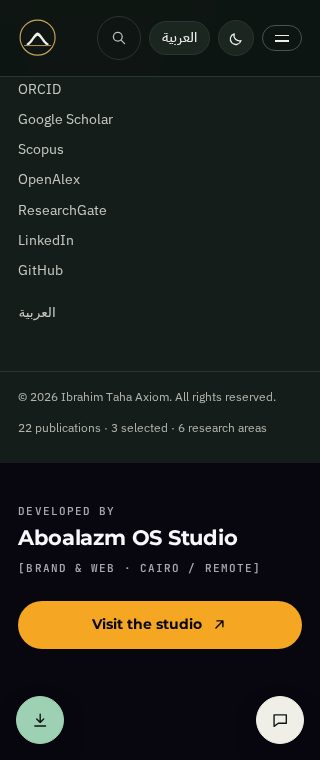
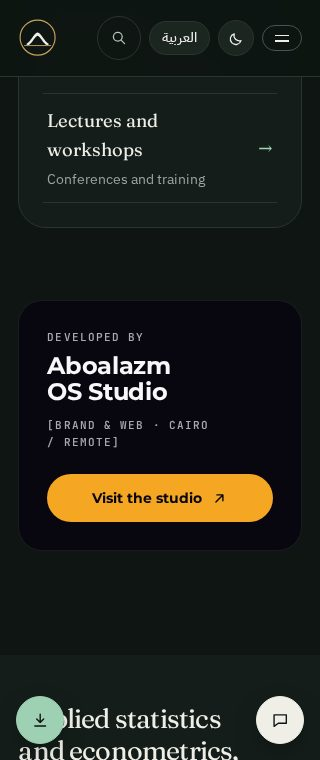
Studio credit: a section of its own before the footer, not a band in it
The owner asked for the credit as a normal section inside the page, just
before the footer, instead of the last band inside it.

- StudioCredit.astro is now a <section> between </main> and the footer,
  labelled by its <h2> ("Developed by Aboalazm OS Studio"), with its own
  data-pagefind-ignore: a rounded obsidian panel (the studio's 24 px
  radius) inside the page width. Still only --os-* tokens.
- The footer, the assistant's launcher and the install button are back to
  main byte for byte (no more --floating-clearance).
- Stacked below 48rem, side by side from 48rem: a fixed switch, so the
  height content-visibility reserves can be computed in CSS from the same
  values the layout uses. It matches the laid-out height at 34 width x
  language pairs (320-1920 px), so the footer never moves when the section
  appears. The first estimate (13rem everywhere) moved it by up to 33 px
  and failed the install-button footer check by 1 px.
- The site's Latin-in-Arabic-heading serif rule is overridden for the
  studio's name, which stays in Montserrat.
- Tests: the place, the heading, the keyboard order (content, button,
  footer), the reserved height at 1280/390/320, geometry against the panel.
- Docs: README, D-22, policy section 9, interaction architecture, QA log
  (including a correction: main already fails AXIOM contrast at the end of
  Arabic pages at 1280 px; the 96 % header fixes it), new screenshots.

diff --git a/docs/decisions-pending.md b/docs/decisions-pending.md
@@ -17,7 +17,7 @@
 | D-19 | **قرارات مراجعة جودة البيانات** | 🟢 الباحث جاوب على الأسئلة الـ16 في مراجعة جودة البيانات (اكتملت 2026-11-06 الساعة 6:22 م)، وصاحب المشروع وضّح ثلاث نقاط في محادثة المشروع. **اتحسم 15 سؤال واتطبّق:** معرّف Scopus الوحيد هو 57226774796 (DQ-05)؛ عنوان ResearchGate المعتمد هو Ibrahim-Taha-5 (DQ-06)؛ التعيين في فرع طنطا والتدريس في المقر الرئيسي بالمعادي (DQ-07)؛ رخصة مستودع البيانات على GitHub هي CC BY 4.0، وSVM_New غير معروض (DQ-09)؛ الاسم الرسمي «ابراهيم محمد ابراهيم محمود طه» في صفحة النبذة وبيانات محركات البحث، والصيغة القصيرة «ابراهيم محمد طه» في العناوين العربية باختيار صاحب المشروع (DQ-10)؛ صيغة واحدة للمؤلف المشارك «Rady, E. A.» (الحسيني عبد البر ابراهيم راضي، بتوضيح صاحب المشروع) (DQ-11)؛ الدليلان الشاملان كتب، فبقى العدد 6 كتب وتقريرين فنيين (DQ-12)؛ رابطا مجالات البحث الضعيفان اتبدّلوا بمجال التقارير الإحصائية والبرمجيات اللي اختاره صاحب المشروع (DQ-14)؛ والباقي (DQ-01–04 وDQ-08 وDQ-15 وDQ-16) اتأكّد زي ما هو من غير تغيير. **لسه مفتوح:** DQ-13 (أوراق مؤتمرَي 2018 و2019): إجابة الباحث «لست متأكدًا» متسجّلة. وفي 2026-11-07 السؤال اتضيّق: نشر الورقتين في وقائع المؤتمر اتأكد بمصادر، والصفحة بقى اسمها «أوراق المؤتمرات»، وفاضل سؤال واحد: هل الباحث قدّم أي ورقة منهم شفهيًا بنفسه. كل إجابة متسجّلة بمصدرها في [data-quality-register.md](data-quality-register.md)، والبناء بيرفض إغلاق أي سؤال من غير قرار مسجّل. المسودات العربية اللي اتعدّلت بسبب القرارات دي لسه مسودات | 2026-11-06 |
 | D-20 | **مساعد الموقع (شات بوت)** | 🟢 **بطلب صاحب المشروع:** نافذة محادثة منبثقة في كل صفحات الموقع، تجاوب عن محتوى الموقع: إيه الموجود في كل قسم وإيه الناقص. **اختيارات صاحب المشروع:** للموقع ده؛ في نفس طلب الدمج #9؛ الإجابات من محتوى الموقع، ومعاها شرح إحصائي عام بشرط أن يبدأ بعبارة «شرح عام (ليس من محتوى الموقع):». **التنفيذ:** مفيش تدريب للنموذج (fine-tuning). المحتوى المعتمد كله بيتبعت مع كل سؤال لـ Google Gemini عن طريق Vercel Function (`/api/chat`)، ودي أول نقطة خادم في الموقع (D-04). **المفتاح** مكانه الوحيد متغير البيئة `GEMINI_API_KEY` في Vercel، لا في الكود ولا في المتصفح. **صاحب المشروع هو اللي يضيفه** (Production وPreview)، ولحد ما يتضاف المساعد بيعرض إنه غير مُعَدّ. المفتاح اللي اتبعت في المحادثة لازم يتغيّر، ويتقيّد بـ Gemini API، ويتحطله حد ميزانية. القواعد والخصوصية في [public-content-policy.md](public-content-policy.md) §7، والتشغيل في [site/README.md](../site/README.md#site-assistant-apichat) | 2026-11-07 |
 | D-21 | **تثبيت الموقع كتطبيق (PWA)** | 🟢 **بطلب صاحب المشروع:** «ضيف امكانية تحميل الويب سايت كتطبيق». **التنفيذ:** الموقع بقى تطبيق ويب يتثبّت من المتصفح نفسه، من غير متجر. بيفتح في نافذة مستقلة بأيقونته، والصفحات اللي الزائر فتحها قبل كده بتفضل متاحة للقراءة من غير إنترنت، والصفحتين الرئيسيتين بيتحفظوا من أول زيارة. **تطبيقين:** إنجليزي يبدأ من `/` (بنفس هوية أي تثبيت قديم) وعربي يبدأ من `/ar/` باسم «ابراهيم محمد طه» (DQ-10). **زر «ثبّت التطبيق»:** بعد أول نسخة طلب صاحب المشروع: «مش عاوز دا انا عاوز يبقا زرار قصاد الشات بوت عاليمين ادوس عليه يتثبت علطول». الزر بقى زر عائم واحد قصاد زر المساعد: تحت على اليمين في العربي، وتحت على الشمال في الإنجليزي، على نفس الارتفاع. على الموبايل بيبقى دايرة بأيقونة زي زر المساعد. واتشالت نافذة الخطوات المكتوبة وزرار الفوتر وقائمة الموبايل. الزر بيظهر لما المتصفح نفسه يبلّغ إن الموقع قابل للتثبيت (Chrome وEdge والمتصفحات المبنية على Chromium)، ودوسة واحدة بتفتح نافذة التثبيت بتاعة المتصفح. بيفضل تأكيد واحد من المتصفح نفسه، لأن مفيش موقع يقدر يثبّت نفسه من غير موافقة الزائر. في Safari (iPhone وiPad والماك) وFirefox مفيش زر، لأن المتصفحات دي مش بتدّي المواقع أي طريقة للتثبيت؛ التثبيت هناك من قائمة المتصفح (في Safari: مشاركة ثم «إضافة إلى الشاشة الرئيسية»). الزر مش بيظهر جوه التطبيق بعد تثبيته، ولا من غير JavaScript. **المحتوى:** هو نفس محتوى الموقع المعتمد، والصفحة اللي تتشال من الموقع بتتشال نسختها المحفوظة أول ما الزائر يفتحها وهو متصل ([public-content-policy.md](public-content-policy.md) §8). **مش داخل في التنفيذ:** النشر على Google Play، وده ممكن لاحقًا عن طريق TWA (بأداة PWABuilder أو Bubblewrap) ومحتاج حساب مطوّر باسم صاحب المشروع وملف `/.well-known/assetlinks.json`. وكمان App Store، لأن إرشادات Apple (البند 4.2) بترفض التطبيق اللي مجرد موقع متغلّف. **لسه:** متجرّبش على أجهزة حقيقية؛ أول تجربة فعلية بتكون على الموقع المنشور. التفاصيل في [site/README.md](../site/README.md#install-as-an-app) | 2026-11-07 |
-| D-22 | **توقيع الاستوديو في آخر الموقع** | 🟢 **بطلب صاحب المشروع:** «ضيف في الآخر سيكشن انو الموقع من تطوير Aboalazm OS Studio … واعمل زرار ريدايركت والسيكشن يكون بايدنتيتي الاستوديو مش الويبسايت». **التنفيذ:** شريط في آخر كل صفحة، جوه الفوتر، مكتوب فيه «من تطوير Aboalazm OS Studio»، وزرار «زيارة الاستوديو» بيفتح https://aboalazm-os.vercel.app/ في تبويب جديد. **الهوية:** هوية الاستوديو مش الموقع، ومفيش ولا لون أو خط من ألوان وخطوط الموقع. الخلفية #080710، وهو نفس لون تطبيق الاستوديو في الـ manifest بتاعه. ونظام «semantic monochrome» بتاع الاستوديو: نص بلون واحد بدرجات شفافية، وخط رفيع أبيض 8%، واللون المميز #F5A623 للزرار وحلقة التركيز بس. والخطوط Montserrat وJetBrains Mono، وIBM Plex Sans Arabic في العربي. **مش داخل:** خطوط العناوين بتاعة الاستوديو (GC EPICPRO وThmanyah) ما اتنسختش لأن رخصتها للموقع ده مش معروفة. ولوجو الاستوديو مش موجود، لأن ملفه مش متاح هنا. **تعديل جانبي:** الهيدر بعد النزول بقى أوضح شوية (96% بدل 92%)، علشان كلمة AXIOM الصغيرة تفضل مقروءة لما الفوتر الغامق يعدي تحته. التفاصيل في [site/README.md](../site/README.md#studio-credit) | 2026-11-07 |
+| D-22 | **توقيع الاستوديو في آخر الموقع** | 🟢 **بطلب صاحب المشروع:** «ضيف في الآخر سيكشن انو الموقع من تطوير Aboalazm OS Studio … واعمل زرار ريدايركت والسيكشن يكون بايدنتيتي الاستوديو مش الويبسايت». **التنفيذ:** سيكشن لوحده في كل صفحة، بعد محتوى الصفحة وقبل الفوتر على طول، عنوانه «من تطوير Aboalazm OS Studio»، وفيه زرار «زيارة الاستوديو» بيفتح https://aboalazm-os.vercel.app/ في تبويب جديد. أول نسخة كانت شريط جوه الفوتر، وصاحب المشروع طلب تعديلها: «ليه تحت الفوتر انا عاوزها سيكشن جوا الصفحة عادي بس قبل الفوتر». **الهوية:** هوية الاستوديو مش الموقع، ومفيش ولا لون أو خط من ألوان وخطوط الموقع. الخلفية #080710، وهو نفس لون تطبيق الاستوديو في الـ manifest بتاعه. ونظام «semantic monochrome» بتاع الاستوديو: نص بلون واحد بدرجات شفافية، وخط رفيع أبيض 8%، واللون المميز #F5A623 للزرار وحلقة التركيز بس، ولوحة بحواف مدورة 24px زي لوحات الاستوديو الكبيرة. والخطوط Montserrat وJetBrains Mono، وIBM Plex Sans Arabic في العربي. **مش داخل:** خطوط العناوين بتاعة الاستوديو (GC EPICPRO وThmanyah) ما اتنسختش لأن رخصتها للموقع ده مش معروفة. ولوجو الاستوديو مش موجود، لأن ملفه مش متاح هنا. **تعديل جانبي:** الهيدر بعد النزول بقى أوضح شوية (96% بدل 92%)، علشان كلمة AXIOM الصغيرة تفضل مقروءة فوق الفوتر الغامق. في آخر الصفحات العربي على الشاشات العريضة، الفوتر بيملا الشاشة كلها تحت الهيدر، وكانت النسبة 4.4:1 حتى على main، يعني المشكلة دي كانت موجودة قبل التوقيع. التفاصيل في [site/README.md](../site/README.md#studio-credit) | 2026-11-07 |
 | D-07 | **الاستضافة** | 🟢 **Vercel**. التطبيق في مجلد `site/` كـ Root Directory، والإعدادات والمتغيرات موثقة في [deployment.md](deployment.md) | 2026-11-05 |
 
 **ما يترتب على D-03:** مسارات منفصلة لكل لغة، ونصوص الواجهة مترجمة، وCSS بـ logical properties، وخط عربي، وhreflang مع الإنجليزية كـ `x-default`، واختبارات بصرية للاتجاهين LTR وRTL. القراران الفرعيان D-03a وD-03b بالأسفل.

diff --git a/site/README.md b/site/README.md
@@ -33,7 +33,7 @@ Run `npm run inventory` for the current figures rather than trusting this paragr
 ```
 src/
 ├── components/
-│   ├── layout/        BaseLayout pieces: SiteHeader (search button), SiteFooter (translation status), Seo (meta, hreflang, JSON-LD, robots), StudioCredit (the studio's band at the end of the footer)
+│   ├── layout/        BaseLayout pieces: SiteHeader (search button), SiteFooter (translation status), Seo (meta, hreflang, JSON-LD, robots), StudioCredit (the studio's section, right before the footer)
 │   ├── home/          HomeHero (normal-density figure), IdentityPanel, MetricCards, ResearchDiscovery, LabTeaser
 │   ├── search/        SearchDialog (Ctrl/⌘ K, combobox + listbox)
 │   ├── publications/  PublicationExplorer (search, filters, sorts, views, URL state), PublicationItem, CiteBlock, AuthorList
@@ -255,15 +255,16 @@ Further details:
 
 ## Studio credit
 
-The last band of every page, inside the site footer (`src/components/layout/StudioCredit.astro`), says the website was developed by **Aboalazm OS Studio**. It links to the studio's site, <https://aboalazm-os.vercel.app/>, with "Visit the studio" / «زيارة الاستوديو»; the link opens in a new tab, and screen readers are told so. The owner asked for it on 2026-11-07 (decision D-22).
+A section of its own on every page, after the page's content and right before the site footer, says the website was developed by **Aboalazm OS Studio** (`src/components/layout/StudioCredit.astro`, placed by `BaseLayout.astro`). Its heading, an `<h2>` that labels the section, reads "Developed by Aboalazm OS Studio" / «من تطوير Aboalazm OS Studio». It links to the studio's site, <https://aboalazm-os.vercel.app/>, with "Visit the studio" / «زيارة الاستوديو»; the link opens in a new tab, and screen readers are told so. The owner asked for it on 2026-11-07 (decision D-22). The first version was a band at the end of the footer; the owner then asked for a section inside the page, before the footer.
 
-**The studio's identity, not the site's.** The band uses none of the site's colour, font, spacing or motion tokens; `tests/studio-credit.test.mjs` checks this. Its values come from the studio:
+**The studio's identity, not the site's.** The section uses none of the site's colour, font, spacing or motion tokens; `tests/studio-credit.test.mjs` checks this. Its values come from the studio:
 - **Canvas:** obsidian `#080710`, the theme colour of the studio's own app manifest (`https://aboalazm-os.vercel.app/manifest.webmanifest`).
 - **Token layer ("semantic monochrome"):** taken from `app/globals.css` in `3boalazm/Youssefguba-os`, a site built on the studio's system with the same `#080710`. It gives:
   - one text colour at fixed opacities;
   - the 8 % white "spec line";
   - the studio accent `#F5A623`, which that layer keeps "ONLY for focus rings & critical CTAs" (here, the one button and its focus ring);
-  - the signature curve `cubic-bezier(0.16, 1, 0.3, 1)`.
+  - the signature curve `cubic-bezier(0.16, 1, 0.3, 1)`;
+  - the 24 px radius of its large panels (from the same project's architecture notes): the section is a rounded obsidian panel inside the page width.
 - **Typefaces:**
   - Montserrat 700 and JetBrains Mono 500, Latin only, from `@fontsource` (OFL);
   - IBM Plex Sans Arabic in Arabic, which the site already loads;
@@ -272,15 +273,19 @@ The last band of every page, inside the site footer (`src/components/layout/Stud
 
 **Arabic.** Labels drop the Latin tracking and capitals, which would break the joins of Arabic letters. The studio's name stays in Latin, isolated with `<bdi lang="en">`. The button's arrow points the reading way.
 
-**Cost.** `content-visibility: auto` keeps the band from being laid out until it nears the viewport, so its two fonts (18.8 KB and 21.8 KB) load only then. Lighthouse saw neither font during page load, and the Performance score stayed the same (`docs/qa-checklist.md`).
+**Layout.** Below 48rem the text and the button are stacked (the button full width up to 30rem); from 48rem they sit side by side, which they do with room to spare in both languages. The switch is a fixed width rather than a wrap, so the section's height can be known in advance (next paragraph). Arabic is mirrored, and the button's arrow points the reading way.
 
-**The floating buttons.** While they show, the assistant's launcher and the install button set `--floating-clearance` on `<html>`. The band adds it to its bottom padding, so at the end of a page they never cover it. This room used to be under the footer.
+**Cost.** `content-visibility: auto` keeps the section from being laid out until it nears the viewport, so its two fonts (18.8 KB and 21.8 KB) load only then. Until then the browser reserves its height (`contain-intrinsic-block-size`), computed in CSS from the same values the layout uses: the panel's padding, the name's size, the line heights, and the gap and button when stacked (the `--credit-*` values in the component). Where the name and the English label line wrap (344 and 337 px wide viewports, measured with the studio's fonts), the height adds their second lines. It matches the laid-out height at every width from 320 to 1920 px in both languages, so the footer does not move when the section appears. Lighthouse saw neither font during page load, and the Performance score and CLS stayed the same (`docs/qa-checklist.md`).
 
-**The site header.** With the band, the dark footer can now scroll under the condensed header on wide screens. The header's paper share went from 92 % to 96 %, so the small brass "AXIOM" keeps 4.5:1 (axe measured 4.4:1 before).
+**The floating buttons.** The footer keeps the room it always had for them at the end of a page. In the section, the button stays clear of them at 1280, 390 and 320 px.
 
-**Tests:** `tests/studio-credit.test.mjs` covers every page, the link, the identity and the clearance. The studio-credit block of `tests/e2e/app.mjs` covers the rest:
-- the fonts wait until the band nears the viewport;
-- the rendered colours, typefaces and focus ring are the studio's;
+**The site header.** At the end of Arabic pages on wide screens, the footer (917 px tall at 1280 × 800) fills the viewport under the condensed header. At 92 % paper, the small brass "AXIOM" measured 4.4:1 there, on `main` as well, so this predates the credit. The condensed header now uses 96 % paper, and axe passes.
+
+**Tests:** `tests/studio-credit.test.mjs` covers every page (the section after `</main>`, right before the footer, and not in it), its heading, the link, the identity and the footer's room for the floating buttons. The studio block of `tests/e2e/app.mjs` covers the rest:
+- its place, its heading, and the keyboard order (the page's content, the button, then the footer);
+- the reserved height equals the laid-out one, to a pixel, at 1280, 390 and 320 px;
+- the fonts wait until the section nears the viewport;
+- the rendered colours, typefaces, panel and focus ring are the studio's, and the studio's name stays in Montserrat inside the Arabic heading;
 - the button stays clear of the floating buttons in English and Arabic, at 320 px, and without JS.
 
 ## Deployment

diff --git a/docs/qa-checklist.md b/docs/qa-checklist.md
@@ -266,6 +266,26 @@ The owner asked for a section at the end of the site saying it was developed by 
 | Screenshots | 4 in [`screenshots/studio-credit/`](screenshots/studio-credit/), all viewed |
 | Not tested | Real devices, Safari and Firefox engines, screen readers, the studio's site itself (not reachable from the sandbox) |
 
+### Follow-up: a section before the footer (2026-11-07)
+
+The owner asked to move it: «ليه تحت الفوتر انا عاوزها سيكشن جوا الصفحة عادي بس قبل الفوتر» ("why under the footer? I want it as a normal section inside the page, just before the footer"). The credit is now a section of its own between `</main>` and the footer: a rounded obsidian panel inside the page width, headed by an `<h2>`. The footer, the assistant's launcher and the install button are back to `main` byte for byte. Environment: the sandbox's Node 22 and Chromium 153, on the built site.
+
+| Check | Result |
+| --- | --- |
+| `npm run build` | 67 pages; all 67 have the section after `</main>` with nothing between it and the footer, and none in the footer. `sw.js` VERSION `841fa583c88d` |
+| `npm test` | 98 tests, all pass. `studio-credit.test.mjs` now has 5: the place, the heading and search exclusion, the link, the identity, and the footer's room for the floating buttons |
+| `npm run qa`, `npm run lab:verify` | Both pass: 67 pages, 152 files, 31 external links. The assistant's knowledge file is byte-identical |
+| `E2E_REQUIRED=1 npm run test:e2e` | 194 checks, all pass: keyboard 37, motion 41, chat 39, app 77. New or changed in the studio block:<br>- after `<main>` and right before the footer (gaps 56 and 104 px at 1280); heading "Developed by Aboalazm OS Studio"; panel radius 24 px;<br>- Tab goes from the page's last link to the button (amber ring), then into the footer;<br>- in Arabic, the heading reads «من تطوير Aboalazm OS Studio» and the name stays in Montserrat;<br>- Arabic at 390 px: the text starts at the panel's right edge and the button spans the panel (295 of 295 px);<br>- the reserved height equals the laid-out one: 189.8, 214.6 and 251.5 px at 1280 (EN), 390 (AR) and 320 (EN) |
+| Reserved height, all widths | Before laying the section out, the browser keeps the height computed from its layout values. At 34 width × language pairs from 320 to 1920 px, it matched the laid-out height to 0.1 px |
+| What the test catches | With the stacked gap and button set to 4rem instead of 4.5rem, the two stacked checks fail (206.6 vs 214.6 px, 243.5 vs 251.5 px); restored, they pass |
+| What it fixed on the way | The first version reserved 13rem (208 px) at every width, while the real height runs from 158 to 251 px depending on the width and language. Jumping straight to the end of `/ar/research/` at 320 px then moved the footer by 33 px, and the existing check "the install button stays below the footer's last line" failed by 1 px. With the computed height it passes with 32 px to spare |
+| axe-core 4.14.0 | 22 runs, the section in the middle of the viewport and at the end of pages (EN/AR × light/dark × 1280/390, 320 px, the button hovered and keyboard-focused): 0 violations |
+| Contrast in the section | Unchanged: label and line 8.75:1, name 18.89:1, button 9.88:1, hovered 11.38:1, focus ring against the panel 9.88:1 |
+| The header, corrected | `main` (`8f02cc5`) itself fails at the end of Arabic pages at 1280 × 800 in the light theme: the 917 px footer fills the viewport under the 92 % header, and "AXIOM" measures 4.4:1 on `/ar/` and `/ar/research/`. English passes there. This branch with the header put back to 92 % fails the same way; at 96 % it passes. So the header change fixes an issue that predates the credit; the first run above put it down to the band |
+| Lighthouse 12.8.2 (`main` `8f02cc5` → this) | Medians of 3 alternating runs:<br>- `/`: 80 → 80; LCP 4.00 → 4.06 s, TBT 0 → 0, CLS 0.0183 → 0.0183.<br>- `/ar/`: 67 → 67; LCP 5.41 → 5.49 s, TBT 0 → 0, CLS 0.0460 → 0.0458.<br>- +5.3 KiB per page.<br>- Neither studio font was fetched during page load in any of the 12 runs |
+| Screenshots | The 4 in [`screenshots/studio-credit/`](screenshots/studio-credit/) retaken with the section in the middle of the viewport, all viewed |
+| Not tested | Real devices, Safari and Firefox engines, screen readers, the studio's site itself (not reachable from the sandbox) |
+
 ## Manual matrix (before a release)
 
 Mark each cell after checking it in a real browser.

diff --git a/docs/screenshots/studio-credit/README.md b/docs/screenshots/studio-credit/README.md
@@ -1,12 +1,12 @@
 # Studio credit: screenshots
 
-All four images come from the built site (`site/dist`) in headless Chromium 153, served locally, with reduced motion. Each page is scrolled to its end. The assistant's launcher shows, and so does the install button, after a synthetic `beforeinstallprompt` as in `site/tests/e2e/app.mjs`. Results: [`../../qa-checklist.md`](../../qa-checklist.md#run-for-the-studio-credit-2026-11-07).
+All four images come from the built site (`site/dist`) in headless Chromium 153, served locally, with reduced motion. Each page is scrolled so the studio section sits in the middle of the viewport: the end of the page's content shows above it, and the top of the site's footer below it. The assistant's launcher shows, and so does the install button, after a synthetic `beforeinstallprompt` as in `site/tests/e2e/app.mjs`. Results: [`../../qa-checklist.md`](../../qa-checklist.md#follow-up-a-section-before-the-footer-2026-11-07).
 
-The file name gives the language, the viewport width in px and the site's theme. The band itself looks the same in both themes: it wears the studio's identity, not the site's.
+The file name gives the language, the viewport width in px and the site's theme. The section itself looks the same in both themes: it wears the studio's identity, not the site's.
 
 | File | What it shows |
 | --- | --- |
-| `studio-credit-en-1280-light.jpg` | `/` at 1280 × 800. The site's pine footer ends, then the studio's obsidian band:<br>- at the left, "DEVELOPED BY" in JetBrains Mono capitals, "Aboalazm OS Studio" in Montserrat bold and "[BRAND & WEB · CAIRO / REMOTE]";<br>- at the right, the amber pill "Visit the studio ↗".<br>The install button and "Ask about this site" sit in the room kept below. |
-| `studio-credit-ar-390-light.jpg` | `/ar/` at 390 × 844, right to left: «من تطوير», the Latin name, «[هوية بصرية وويب · القاهرة / عن بُعد]» in IBM Plex Sans Arabic without tracking, and the full-width amber button «زيارة الاستوديو» with its arrow mirrored. The two round floating buttons sit below. |
-| `studio-credit-ar-1280-dark.jpg` | `/ar/` at 1280 × 800, dark theme. The band mirrored: the text at the right, the button at the left. The floating buttons are «ثبّت التطبيق» at the bottom right and «اسأل عن الموقع» at the bottom left. |
-| `studio-credit-en-320-dark.jpg` | `/` at 320 × 760, dark theme. The band stacked, with the button full width and nothing cut off or overflowing. |
+| `studio-credit-en-1280-light.jpg` | `/` at 1280 × 800. The home page's last card, then the studio's rounded obsidian panel inside the page width:<br>- at the left, "DEVELOPED BY" in JetBrains Mono capitals, "Aboalazm OS Studio" in Montserrat bold and "[BRAND & WEB · CAIRO / REMOTE]";<br>- at the right, the amber pill "Visit the studio ↗".<br>Below it, the top of the site's pine footer, with the install button and "Ask about this site" over it. |
+| `studio-credit-ar-390-light.jpg` | `/ar/` at 390 × 760, right to left: «من تطوير», the Latin name, «[هوية بصرية وويب · القاهرة / عن بُعد]» in IBM Plex Sans Arabic without tracking, and the amber button «زيارة الاستوديو» across the panel, its arrow mirrored. The footer starts below, with the two round floating buttons. |
+| `studio-credit-ar-1280-dark.jpg` | `/ar/` at 1280 × 800, dark theme. The panel mirrored: the text at the right, the button at the left; its hairline border sets it off the dark page. The floating buttons are «ثبّت التطبيق» at the bottom right and «اسأل عن الموقع» at the bottom left. |
+| `studio-credit-en-320-dark.jpg` | `/` at 320 × 760, dark theme. The panel stacked: the name and the label line on two lines each, the button full width, nothing cut off or overflowing. |

diff --git a/docs/interaction-architecture.md b/docs/interaction-architecture.md
@@ -118,16 +118,17 @@ The home page is made of these sections:
   - The assistant needs the network and shows its normal error notice offline; its requests are never answered from a cache.
 - **Motion:** none.
 
-## Studio credit (end of every page)
+## Studio credit (before the footer of every page)
 
-- **What it is:** the last band inside the footer: "Developed by Aboalazm OS Studio" / «من تطوير Aboalazm OS Studio», plus one button, "Visit the studio" / «زيارة الاستوديو». The button opens <https://aboalazm-os.vercel.app/> in a new tab; screen readers hear "(opens in a new tab)". Details: [`site/README.md`](../site/README.md#studio-credit); decision D-22.
-- **Look:** the studio's identity, not the site's. It keeps the same look in both of the site's themes.
+- **What it is:** a section of its own after the page's content, right before the footer, headed "Developed by Aboalazm OS Studio" / «من تطوير Aboalazm OS Studio» (an `<h2>` that labels the section), plus one button, "Visit the studio" / «زيارة الاستوديو». The button opens <https://aboalazm-os.vercel.app/> in a new tab; screen readers hear "(opens in a new tab)". Details: [`site/README.md`](../site/README.md#studio-credit); decision D-22.
+- **Look:** the studio's identity, not the site's: a rounded obsidian panel inside the page width. It keeps the same look in both of the site's themes.
 - **Layout:**
-  - wide screens: text at the inline start, the button at the inline end;
-  - up to 30rem: stacked, with the button full width;
+  - from 48rem: text at the inline start, the button at the inline end;
+  - below 48rem: stacked, and up to 30rem the button is full width;
   - Arabic: mirrored, and the arrow points the reading way.
-- **Focus:** the button comes after the footer links and before the floating buttons in the tab order. It shows the studio's amber ring at once, instead of the site's closing-in focus animation.
-- **With the floating buttons:** they set `--floating-clearance`, and the band keeps that much room at its end, so at the end of a page they never cover the button.
+- **Focus:** the button comes after the page's content and before the footer links in the tab order. It shows the studio's amber ring at once, instead of the site's closing-in focus animation.
+- **No jump:** until it nears the viewport the section is not laid out, and the browser keeps exactly its height, so the footer below does not move when it appears.
+- **With the floating buttons:** the footer keeps its room for them at the end of a page, as before, and the section's button stays clear of them.
 - **Motion:** only a 200 ms background change on hover, with the studio's easing; none under reduced motion.
 
 ## Motion and accessibility rules

diff --git a/README.md b/README.md
@@ -102,6 +102,6 @@ for p in al-folio academic-pages astro-scholar; do (cd references/$p && sha256su
 - [x] Phase 5: art-directed motion system ("quiet mathematical motion"): the hero curve and probability area draw once, graph edges trace on entry and selection, the journey line reveals, publication results and lab states move with keyed FLIP without interpolating numbers, page transitions within a language. Reduced motion and no-JS show everything at once. Includes axe and Lighthouse runs, accessibility and RTL fixes, a 41-check browser motion suite, 3 new keyboard checks and 8 motion unit tests ([`docs/motion-system.md`](docs/motion-system.md), [`docs/qa-checklist.md`](docs/qa-checklist.md))
 - [ ] Site assistant (D-20): built. A chat panel on every page answers from the approved content with Google Gemini, and labels general statistics explanations as not from the site. It starts answering once the owner adds `GEMINI_API_KEY` in Vercel ([`site/README.md`](site/README.md#site-assistant-apichat))
 - [ ] Installable app (D-21): built. The site installs from the browser as an app (one English, one Arabic) with a floating "Install the app" button opposite the assistant (in Chromium browsers; Safari and Firefox install from their own menus), and pages already opened stay readable offline. Not yet tried on real devices; no app-store packaging ([`site/README.md`](site/README.md#install-as-an-app))
-- [ ] Studio credit (D-22): built. The last band of every page says the website was developed by Aboalazm OS Studio, in the studio's identity rather than the site's, with a button to the studio's site ([`site/README.md`](site/README.md#studio-credit))
+- [ ] Studio credit (D-22): built. A section on every page, right before the footer, says the website was developed by Aboalazm OS Studio, in the studio's identity rather than the site's, with a button to the studio's site ([`site/README.md`](site/README.md#studio-credit))
 - [ ] Researcher review of the Arabic drafts ([`docs/translation-status.md`](docs/translation-status.md)) and an answer to the one data question still open, DQ-13: whether Ibrahim presented the 2018 and 2019 conference papers orally; their publication in the proceedings is verified ([`docs/data-quality-register.md`](docs/data-quality-register.md)). The other 15 were decided on 2026-11-06
 - [ ] Custom domain (D-07a) and the remaining open decisions in [`docs/decisions-pending.md`](docs/decisions-pending.md)

diff --git a/docs/public-content-policy.md b/docs/public-content-policy.md
@@ -157,6 +157,6 @@ The site can be installed as an app (decision D-21, 2026-11-07). How it works: [
 
 ## 9. Developer credit
 
-The last band of every page credits the website's developer, Aboalazm OS Studio, and links to the studio's site (decision D-22, 2026-11-07). How it works: [`site/README.md`](../site/README.md#studio-credit).
-- **About the website, not the researcher.** It names who built the site. It makes no claim about Ibrahim, his work or any affiliation, and it stays out of the site search (the footer is `data-pagefind-ignore`).
+A section on every page, right before the footer, credits the website's developer, Aboalazm OS Studio, and links to the studio's site (decision D-22, 2026-11-07). How it works: [`site/README.md`](../site/README.md#studio-credit).
+- **About the website, not the researcher.** It names who built the site. It makes no claim about Ibrahim, his work or any affiliation, and it stays out of the site search and the assistant's knowledge (the section is `data-pagefind-ignore`).
 - **No tracking.** The link carries no campaign or referral parameters and opens in a new tab with `rel="noopener"`.
